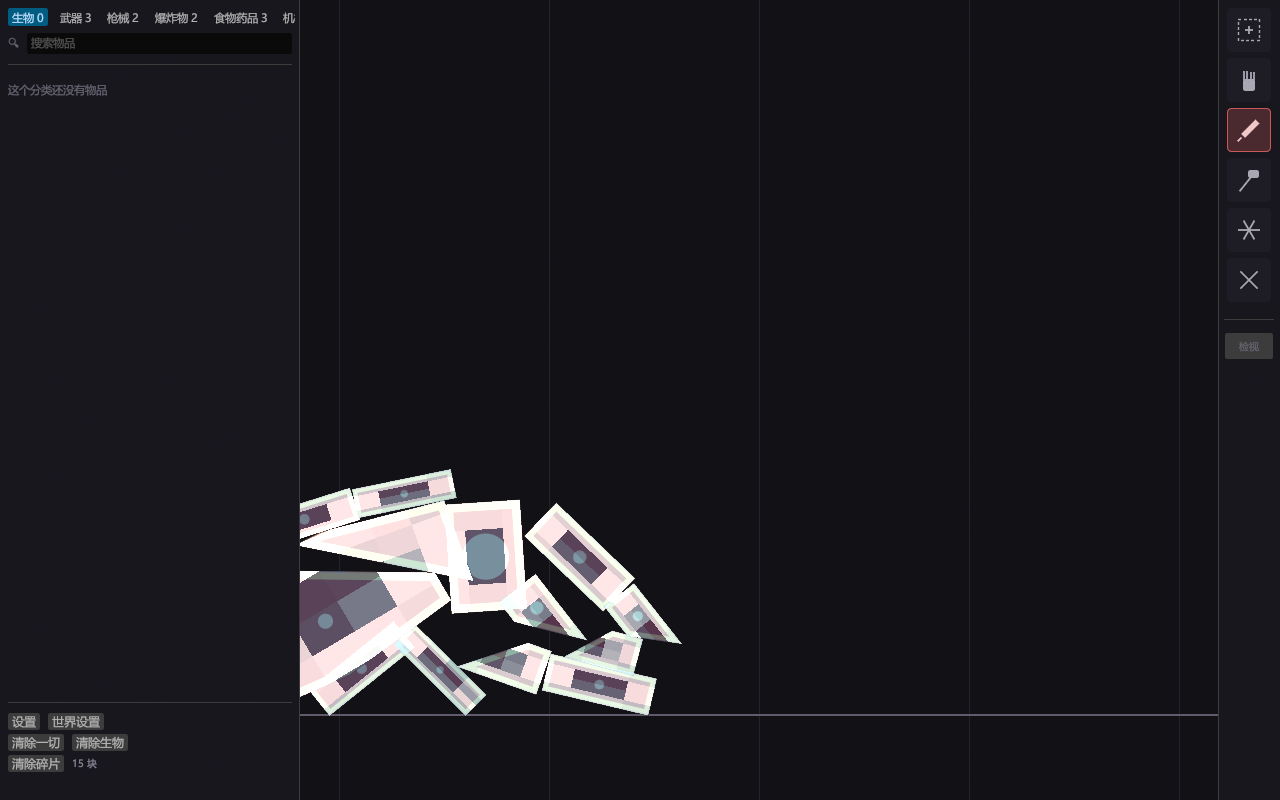
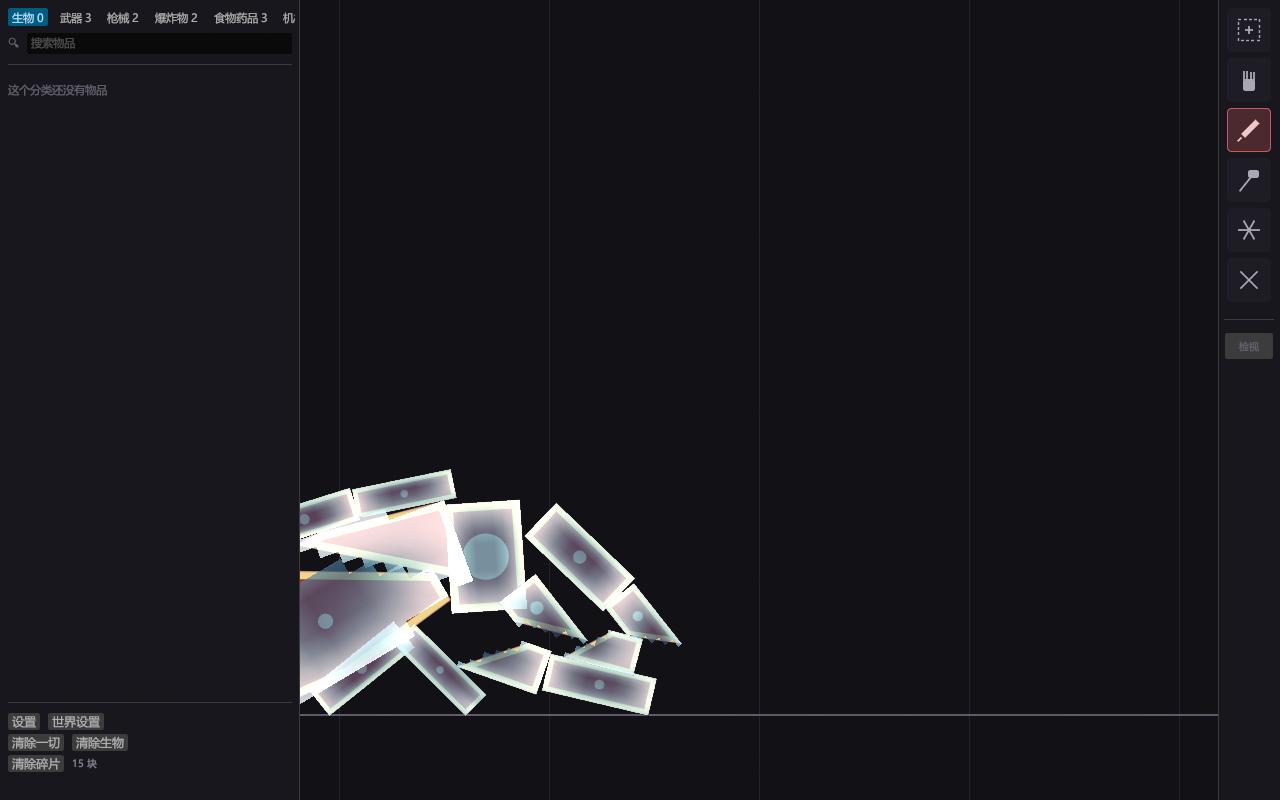
feat(render): 热力图双线性插值；血管拆成单独开关
## 双线性插值

渲染网格 8×8 格 / 9×9 顶点，顶点色从 4×4 快照双线性采样，用顶点色 Mesh
提交（egui 在顶点之间插值）。格子之间从硬边色块变成平滑渐变。

实测唯一色 937 → 4437，前 3 色占比 42.8% → 8.6%，
覆盖面积 6686 → 11811 px（Mesh 比 clip+convex_polygon 画得更满）。

## 那个"大"字是血管

human_01.ron 里六条血管都从心脏 (0,20) 出发：颈动脉向上、左右股动脉向下
分叉、左右肱动脉向两侧 —— 拼起来正好是个"大"字。

之前和关节一起绑在 F1，看起来像某种奇怪的骨架。拆成 F3 单独开关，画得更淡
（alpha 190 → 120，线宽 1.5 → 1.2）。

139 个测试。

Changed region(s): [[0.2188, 0.5938, 0.5312, 0.9062]]

diff --git a/crates/anatomize-app/src/view.rs b/crates/anatomize-app/src/view.rs
@@ -31,6 +31,48 @@ pub fn c32(c: [u8; 4]) -> Color32 {
     Color32::from_rgba_unmultiplied(c[0], c[1], c[2], c[3])
 }
 
+/// 在 4×4 快照上做双线性采样。`u`/`v` 是 0..3 的连续坐标。
+fn bilinear(
+    grid: &anatomize_tissue::HeatGrid,
+    u: f32,
+    v: f32,
+    ch: HeatChannel,
+) -> f32 {
+    let u = u.clamp(0.0, 3.0);
+    let v = v.clamp(0.0, 3.0);
+    let x0 = (u.floor() as usize).min(2);
+    let y0 = (v.floor() as usize).min(2);
+    let fx = u - x0 as f32;
+    let fy = v - y0 as f32;
+    let pick = |gx: usize, gy: usize| {
+        let c = grid.cell(gx, gy);
+        match ch {
+            HeatChannel::Perfusion => c[0],
+            HeatChannel::Oxygen => c[1],
+            HeatChannel::Temperature => c[2],
+            HeatChannel::Damage => c[3],
+        }
+    };
+    let a = pick(x0, y0) * (1.0 - fx) + pick(x0 + 1, y0) * fx;
+    let b = pick(x0, y0 + 1) * (1.0 - fx) + pick(x0 + 1, y0 + 1) * fx;
+    a * (1.0 - fy) + b * fy
+}
+
+fn point_in_poly(poly: &[Vec2], p: Vec2) -> bool {
+    let n = poly.len();
+    if n < 3 {
+        return false;
+    }
+    for i in 0..n {
+        let a = poly[i];
+        let b = poly[(i + 1) % n];
+        if (b - a).perp_dot(p - a) < 0.0 {
+            return false;
+        }
+    }
+    true
+}
+
 /// 扇形三角化之后用 Mesh 提交。凸多边形用这个最稳。
 fn fill_mesh(painter: &Painter, pts: &[Pos2], color: Color32) {
     if pts.len() < 3 {
@@ -56,8 +98,11 @@ pub struct View<'a> {
     pub cam: &'a Camera,
     /// 热力图叠加（`None` = 只画断面）。
     pub heat: Option<HeatChannel>,
-    /// 调试：画血管折线和关节锚点。
+    /// 调试：画关节锚点。
     pub debug: bool,
+    /// 调试：画血管折线（单独开关——它是一张"大"字形的折线，很容易被
+    /// 误认成别的东西，不该跟关节绑在一起）。
+    pub vessels: bool,
 }
 
 impl View<'_> {
@@ -72,8 +117,10 @@ impl View<'_> {
             self.paint_heat(painter, view, ch);
         }
         if self.debug {
-            self.paint_vessels(painter, view);
             self.paint_joints(painter, view);
+        }
+        if self.vessels {
+            self.paint_vessels(painter, view);
         }
     }
 
@@ -159,38 +206,50 @@ impl View<'_> {
                     pos.y + m.x * sin + m.y * cos,
                 )
             };
-            let cw = (grid.hi.x - grid.lo.x) / 4.0;
-            let chh = (grid.hi.y - grid.lo.y) / 4.0;
-            for gy in 0..4 {
-                for gx in 0..4 {
-                    let x0 = grid.lo.x + gx as f32 * cw;
-                    let y0 = grid.lo.y + gy as f32 * chh;
-                    let quad = vec![
-                        to_world(Vec2::new(x0, y0)),
-                        to_world(Vec2::new(x0 + cw, y0)),
-                        to_world(Vec2::new(x0 + cw, y0 + chh)),
-                        to_world(Vec2::new(x0, y0 + chh)),
-                    ];
-                    // 格子是矩形，块不是——求交之后才是真正要涂的那一小片
-                    let clipped = anatomize_core::clip_convex(&quad, &poly);
-                    if clipped.len() < 3 {
-                        continue;
-                    }
-                    let cell = grid.cell(gx, gy);
-                    let v = match ch {
-                        HeatChannel::Perfusion => cell[0],
-                        HeatChannel::Oxygen => cell[1],
-                        HeatChannel::Temperature => cell[2],
-                        HeatChannel::Damage => cell[3],
-                    };
-                    let pts: Vec<Pos2> =
-                        clipped.iter().map(|q| self.cam.to_screen(*q, view)).collect();
-                    // 用 Mesh 而不是 `convex_polygon`：裁剪出来的多边形经常
-                    // 带共线点，egui 的凸性检查会**整块丢弃**，表现就是热力图
-                    // 只画出来一半。Mesh 自己扇形三角化，不挑。
-                    fill_mesh(painter, &pts, c32a(ch.color(ch.normalize(v)), 170));
+
+            // 渲染网格比快照网格密一档（8×8 格 / 9×9 顶点），顶点色按双线性
+            // 从 4×4 快照里取——这样格子之间是平滑渐变，不是硬边色块。
+            const N: usize = 8;
+            let cw = (grid.hi.x - grid.lo.x) / N as f32;
+            let chh = (grid.hi.y - grid.lo.y) / N as f32;
+
+            let mut mesh = egui::Mesh::default();
+            for gy in 0..=N {
+                for gx in 0..=N {
+                    let lc = Vec2::new(
+                        grid.lo.x + gx as f32 * cw,
+                        grid.lo.y + gy as f32 * chh,
+                    );
+                    let sp = self.cam.to_screen(to_world(lc), view);
+                    // 顶点在 4×4 网格里的连续坐标
+                    let u = gx as f32 / N as f32 * 3.0;
+                    let v = gy as f32 / N as f32 * 3.0;
+                    let val = bilinear(&grid, u, v, ch);
+                    mesh.colored_vertex(sp, c32a(ch.color(ch.normalize(val)), 170));
                 }
             }
+
+            for gy in 0..N {
+                for gx in 0..N {
+                    // 只提交中心落在块里的格子——边界会有一格以内的毛刺，
+                    // 但块本身有描边盖住，看不出来
+                    let lc = Vec2::new(
+                        grid.lo.x + (gx as f32 + 0.5) * cw,
+                        grid.lo.y + (gy as f32 + 0.5) * chh,
+                    );
+                    if !point_in_poly(&poly, to_world(lc)) {
+                        continue;
+                    }
+                    let stride = (N + 1) as u32;
+                    let i0 = gy as u32 * stride + gx as u32;
+                    let i1 = i0 + 1;
+                    let i2 = i0 + stride;
+                    let i3 = i2 + 1;
+                    mesh.add_triangle(i0, i1, i3);
+                    mesh.add_triangle(i0, i3, i2);
+                }
+            }
+            painter.add(Shape::mesh(mesh));
         }
     }
 
@@ -319,11 +378,11 @@ impl View<'_> {
                 let a = self.cam.to_screen(w[0], view);
                 let b = self.cam.to_screen(w[1], view);
                 let c = if v.arterial {
-                    [200, 70, 80, 190]
+                    [200, 70, 80, 120]
                 } else {
-                    [80, 110, 190, 190]
+                    [80, 110, 190, 120]
                 };
-                painter.line_segment([a, b], Stroke::new(1.5_f32, c32(c)));
+                painter.line_segment([a, b], Stroke::new(1.2_f32, c32(c)));
             }
         }
     }

diff --git a/crates/anatomize-app/src/main.rs b/crates/anatomize-app/src/main.rs
@@ -45,8 +45,13 @@ pub struct App {
     acc: f32,
     /// 热力图叠加。
     heat: Option<HeatChannel>,
-    /// 调试叠加：血管 + 关节。
+    /// 调试叠加：关节锚点（F1）。
     debug: bool,
+    /// 调试叠加：血管折线（F3）。
+    ///
+    /// 单独一个开关：躯干上那几条折线拼起来像个"大"字，和关节绑在一起时
+    /// 玩家会以为是某种奇怪的骨架。
+    pub vessels: bool,
     /// 上次操作的提示（HUD 底部显示几秒）。
     toast: Option<(String, f32)>,
     /// 有没有中文字形（没有的话提示用户装字体）。
@@ -121,6 +126,7 @@ impl App {
                 None
             },
             debug: false,
+            vessels: false,
             toast: None,
             has_cjk,
             shot: shot::ShotPlan::from_args(),
@@ -595,6 +601,7 @@ pub fn world_view(ui: &mut egui::Ui, app: &mut App) {
                 cam: &app.cam,
                 heat: app.heat,
                 debug: app.debug,
+                vessels: app.vessels,
             };
             v.paint(&painter, view_rect);
 
@@ -725,6 +732,9 @@ impl eframe::App for App {
             }
             if i.key_pressed(egui::Key::F1) {
                 self.debug = !self.debug;
+            }
+            if i.key_pressed(egui::Key::F3) {
+                self.vessels = !self.vessels;
             }
             if i.key_pressed(egui::Key::F2) {
                 self.heat = match self.heat {

diff --git a/设计文档-v0.2.md b/设计文档-v0.2.md
@@ -1358,6 +1358,12 @@ pub struct Signal {         // 信号线（PP 的电路）
 - **ADR-023**：`Sim::cut` / `Sim::slice` 都收**世界米**。两套坐标（世界 vs 身体局部）
   并存必然出错——M6 调试时"切大腿切到小腿上"就是因为它。身体局部厘米只在
   `cut_body_local` / `slice_body_local` 这两个便利入口出现，供测试与离线脚本用。
+- **ADR-049**：4×4 快照在渲染时做**双线性插值**。渲染网格 8×8 格 / 9×9 顶点，
+  顶点色从 4×4 快照双线性采样，用顶点色 `Mesh` 提交——格子之间是渐变，
+  不是硬边色块。实测唯一色从 937 涨到 4437，前 3 色占比从 42.8% 降到 8.6%。
+- **ADR-050**：血管折线单独一个开关（F3），不和关节（F1）绑在一起。
+  六条血管从心脏 (0,20) 出发——向上颈动脉、向下左右股动脉、向左右肱动脉，
+  拼起来正好是个"大"字。和关节叠在一起时，玩家会以为那是某种奇怪的骨架。
 - **ADR-045**：热力图滤镜用 **4×4 低分辨率快照**，不是一块一个纯色。
   一块一个色太糙（骨折处和边缘差很多）；逐 texel 太重（每块一张 24672 的场）。
   4×4 = 16 格、256 字节，块内能看到大致梯度。
